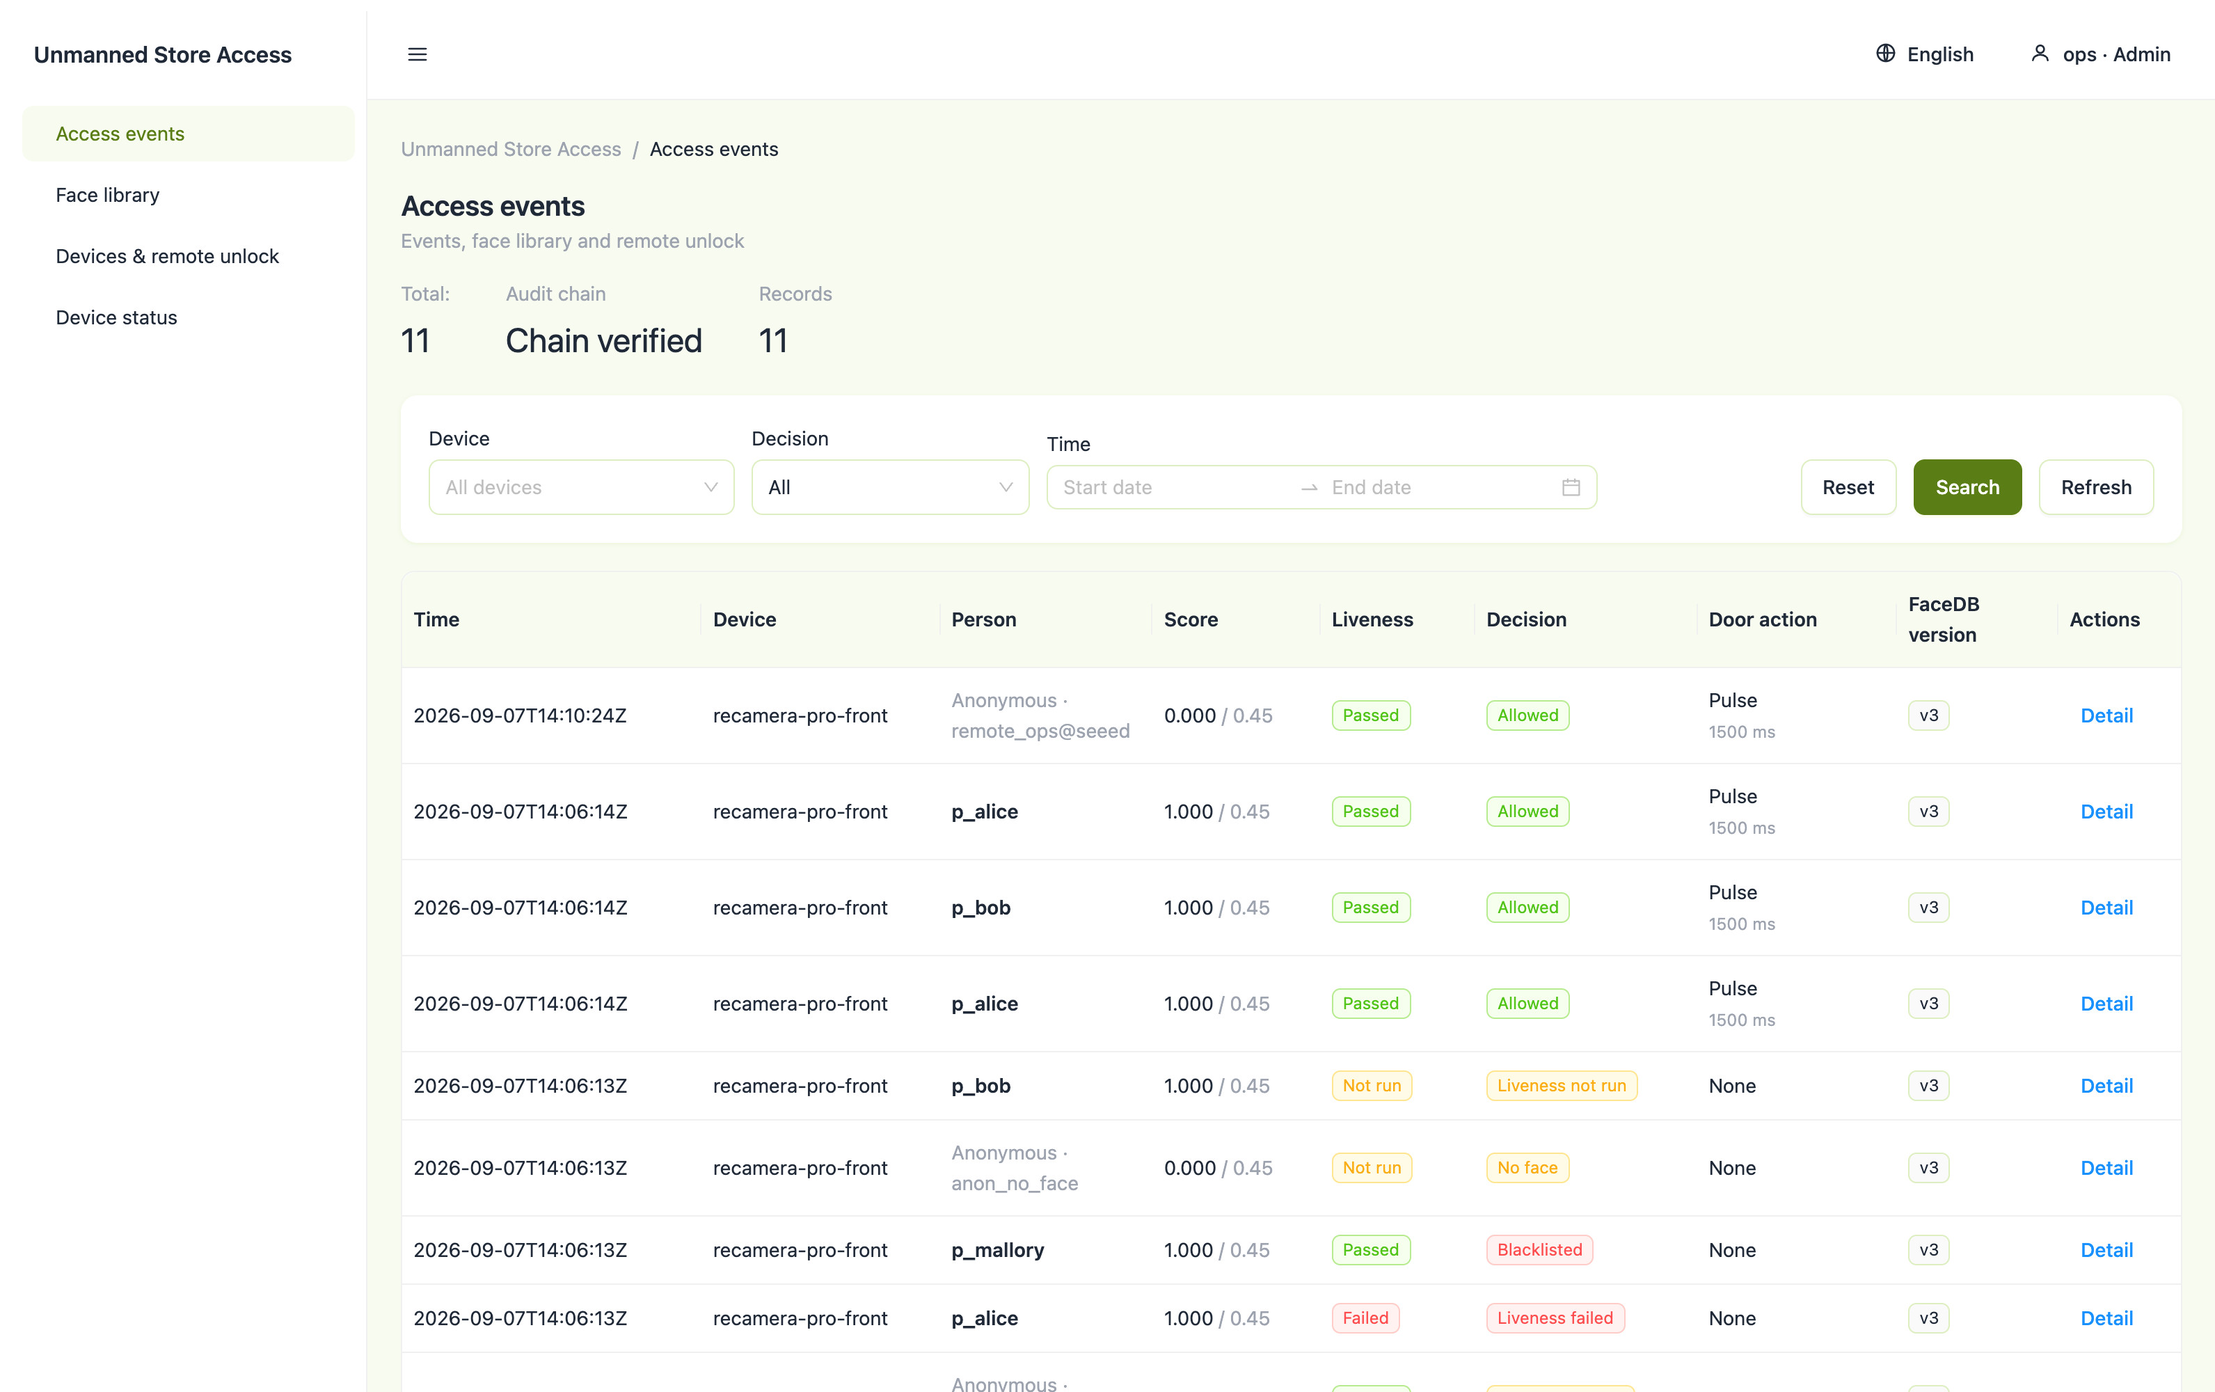
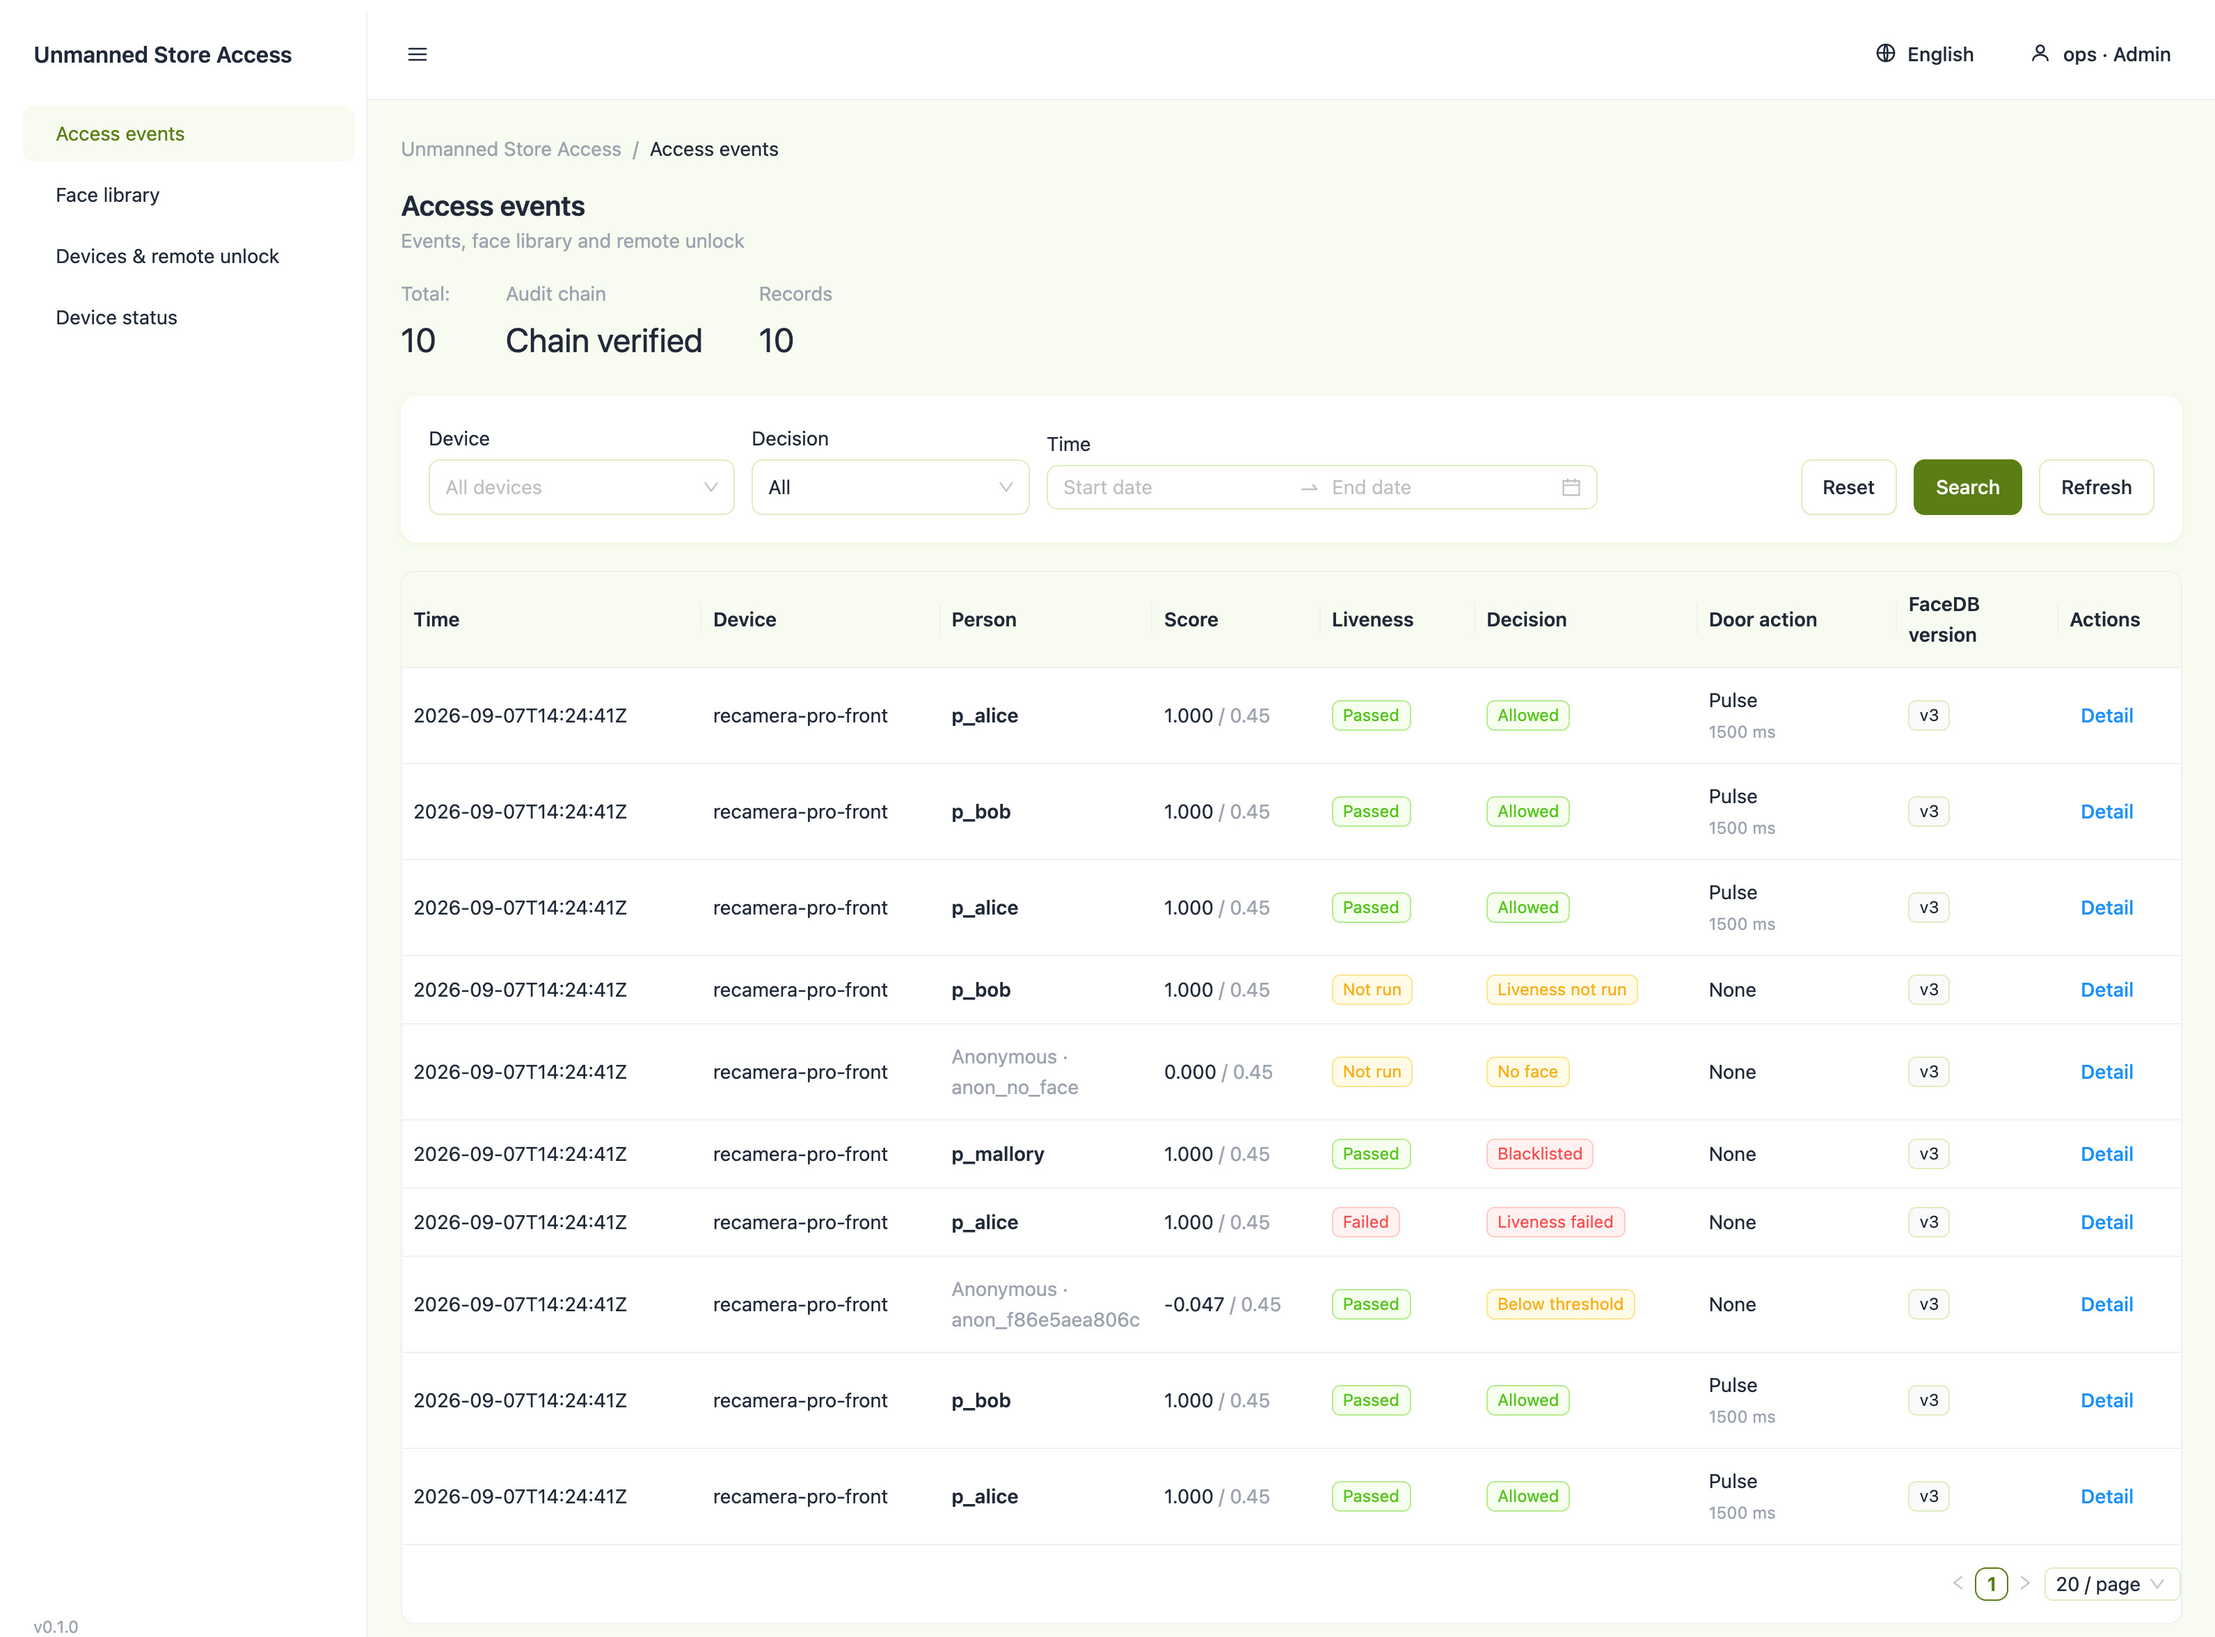
unmanned_store_access: capture the whole event table, fix the devices caption
The event list was cut at the viewport edge: the last rows and the pager were
missing. Re-take it as a full-page capture at the same 1600 CSS width and
deviceScaleFactor 2, so all ten rows and the pager are in frame.

The devices caption described an offline device and a replayed retained LWT.
The image shows an online reCamera door unit and a 1500 ms unlock whose receipt
came back executed. Rewrite it to say that.

diff --git a/solutions/unmanned_store_access/gallery/ATTRIBUTION.md b/solutions/unmanned_store_access/gallery/ATTRIBUTION.md
@@ -121,13 +121,15 @@ Their replacements were taken the same way — `uv run python tools/web_demo.py
 token in `localStorage` — but at a **1600 x 1000 viewport with
 `deviceScaleFactor: 2`**, so every capture is 3200 x 2000 before cropping. The
 device page was captured after issuing one unlock, so the command receipt is in
-the frame rather than an empty panel. Cropped to content and saved as JPEG
+the frame rather than an empty panel. The event list is a **full-page** capture so
+that all ten rows and the pager are in the frame instead of being cut at the
+viewport edge; that is why its source height exceeds 2000. Cropped to content and saved as JPEG
 quality 90; nothing inside the frame was altered or scaled.
 
 | File | Before | After |
 |---|---|---|
-| `ui-events.jpg` | 3200 x 2000 | 3183 x 2000 (right page edge trimmed) |
-| `ui-events-en.jpg` | 3200 x 2000 | 3183 x 2000 |
+| `ui-events.jpg` | 3200 x 2314 (full page) | 3183 x 2250 |
+| `ui-events-en.jpg` | 3200 x 2398 (full page) | 3183 x 2352 |
 | `ui-devices.jpg` | 3200 x 2000 | 3183 x 1660 |
 | `ui-devices-en.jpg` | 3200 x 2000 | 3183 x 1660 |
 | `ui-status.jpg` | 3200 x 2000 | 3183 x 1197 |
